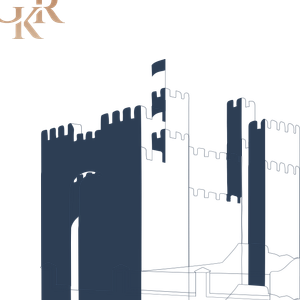
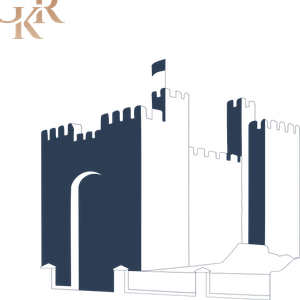
fix: update composite signature images with correct alignment

diff --git a/public/email-signature/garrett.html b/public/email-signature/garrett.html
@@ -55,12 +55,12 @@
     </style>
 </head>
 <body>
-    <table cellpadding="0" cellspacing="0" border="0" width="600" style="width: 600px; border-collapse: collapse; font-family: 'Montserrat', sans-serif;">
+    <table cellpadding="0" cellspacing="0" border="0" width="600" height="300" style="width: 600px; height: 300px; border-collapse: collapse; font-family: 'Montserrat', sans-serif;">
         <tr>
-            <td class="signature-container" valign="top" style="padding: 35px 40px; box-sizing: border-box;">
+            <td class="signature-container" valign="top" style="padding: 35px 40px; box-sizing: border-box; height: 300px;">
                 
                 <!-- Inner Layout -->
-                <table cellpadding="0" cellspacing="0" border="0" width="100%">
+                <table cellpadding="0" cellspacing="0" border="0" width="100%" height="100%">
                     <!-- Line 1: Logo -->
                     <tr>
                         <td align="left" style="padding-bottom: 20px;" colspan="2"> 
@@ -76,8 +76,8 @@
 
                     <!-- Line 3: Content Row -->
                     <tr>
-                        <!-- Left Col: Contact Info -->
-                        <td valign="bottom" width="260">
+                        <!-- Left Col: Contact Info (Aligned Bottom) -->
+                        <td valign="bottom" width="280" style="padding-bottom: 4px;"> <!-- slight padding to align with image baseline -->
                             <table cellpadding="0" cellspacing="0" border="0">
                                 <!-- Address -->
                                 <tr>
@@ -118,22 +118,10 @@
                             </table>
                         </td>
                         
-                        <!-- Right Col: Castle + Monogram -->
-                        <!-- Using side-by-side nested table to ensure alignment and fit -->
-                        <td align="right" valign="bottom" width="260">
-                            <table cellpadding="0" cellspacing="0" border="0">
-                                <tr>
-                                    <!-- Castle -->
-                                    <td valign="bottom" align="right" style="padding-right: 15px;">
-                                        <img src="https://raw.githubusercontent.com/digibranders/garrett-ronan-web/dev/public/email-signature/Castle%20Light.png" class="castle-light" alt="" width="160" style="display: block; border: 0;">
-                                        <img src="https://raw.githubusercontent.com/digibranders/garrett-ronan-web/dev/public/email-signature/Castle%20Dark.png" class="castle-dark" alt="" width="160" style="display: none; border: 0;">
-                                    </td>
-                                    <!-- Monogram -->
-                                    <td valign="bottom" align="right">
-                                        <img src="https://raw.githubusercontent.com/digibranders/garrett-ronan-web/dev/public/email-signature/Favicon%20Gold.png" alt="GR" width="60" style="display: block; border: 0;">
-                                    </td>
-                                </tr>
-                            </table>
+                        <!-- Right Col: Composite Image (Aligned Bottom-Right) -->
+                        <td align="right" valign="bottom" width="240">
+                             <img src="https://raw.githubusercontent.com/digibranders/garrett-ronan-web/dev/public/email-signature/Right_Composite_Light.png" class="castle-light" alt="" width="240" height="240" style="display: block; border: 0; max-width: 100%;">
+                             <img src="https://raw.githubusercontent.com/digibranders/garrett-ronan-web/dev/public/email-signature/Right_Composite_Dark.png" class="castle-dark" alt="" width="240" height="240" style="display: none; border: 0; max-width: 100%;">
                         </td>
                     </tr>
                 </table>

diff --git a/public/email-signature/generate_signature.py b/public/email-signature/generate_signature.py
@@ -4,9 +4,8 @@ REPO_BASE = "https://raw.githubusercontent.com/digibranders/garrett-ronan-web/de
 
 URL_LOGO_BLUE = f"{REPO_BASE}/GR_Blue.png"
 URL_LOGO_WHITE = f"{REPO_BASE}/GR_White.png"
-URL_CASTLE_LIGHT = f"{REPO_BASE}/Castle%20Light.png"
-URL_CASTLE_DARK = f"{REPO_BASE}/Castle%20Dark.png"
-URL_FAVICON = f"{REPO_BASE}/Favicon%20Gold.png"
+URL_RIGHT_LIGHT = f"{REPO_BASE}/Right_Composite_Light.png"
+URL_RIGHT_DARK = f"{REPO_BASE}/Right_Composite_Dark.png"
 
 OUTPUT_FILE = '/Users/apple/Desktop/AI/garrett-ronan-web/public/email-signature/garrett.html'
 
@@ -86,12 +85,12 @@ html_content = f'''<!DOCTYPE html>
     </style>
 </head>
 <body>
-    <table cellpadding="0" cellspacing="0" border="0" width="600" style="width: 600px; border-collapse: collapse; font-family: 'Montserrat', sans-serif;">
+    <table cellpadding="0" cellspacing="0" border="0" width="600" height="300" style="width: 600px; height: 300px; border-collapse: collapse; font-family: 'Montserrat', sans-serif;">
         <tr>
-            <td class="signature-container" valign="top" style="padding: 35px 40px; box-sizing: border-box;">
+            <td class="signature-container" valign="top" style="padding: 35px 40px; box-sizing: border-box; height: 300px;">
                 
                 <!-- Inner Layout -->
-                <table cellpadding="0" cellspacing="0" border="0" width="100%">
+                <table cellpadding="0" cellspacing="0" border="0" width="100%" height="100%">
                     <!-- Line 1: Logo -->
                     <tr>
                         <td align="left" style="padding-bottom: 20px;" colspan="2"> 
@@ -107,8 +106,8 @@ html_content = f'''<!DOCTYPE html>
 
                     <!-- Line 3: Content Row -->
                     <tr>
-                        <!-- Left Col: Contact Info -->
-                        <td valign="bottom" width="260">
+                        <!-- Left Col: Contact Info (Aligned Bottom) -->
+                        <td valign="bottom" width="280" style="padding-bottom: 4px;"> <!-- slight padding to align with image baseline -->
                             <table cellpadding="0" cellspacing="0" border="0">
                                 <!-- Address -->
                                 <tr>
@@ -149,22 +148,10 @@ html_content = f'''<!DOCTYPE html>
                             </table>
                         </td>
                         
-                        <!-- Right Col: Castle + Monogram -->
-                        <!-- Using side-by-side nested table to ensure alignment and fit -->
-                        <td align="right" valign="bottom" width="260">
-                            <table cellpadding="0" cellspacing="0" border="0">
-                                <tr>
-                                    <!-- Castle -->
-                                    <td valign="bottom" align="right" style="padding-right: 15px;">
-                                        <img src="{URL_CASTLE_LIGHT}" class="castle-light" alt="" width="160" style="display: block; border: 0;">
-                                        <img src="{URL_CASTLE_DARK}" class="castle-dark" alt="" width="160" style="display: none; border: 0;">
-                                    </td>
-                                    <!-- Monogram -->
-                                    <td valign="bottom" align="right">
-                                        <img src="{URL_FAVICON}" alt="GR" width="60" style="display: block; border: 0;">
-                                    </td>
-                                </tr>
-                            </table>
+                        <!-- Right Col: Composite Image (Aligned Bottom-Right) -->
+                        <td align="right" valign="bottom" width="240">
+                             <img src="{URL_RIGHT_LIGHT}" class="castle-light" alt="" width="240" height="240" style="display: block; border: 0; max-width: 100%;">
+                             <img src="{URL_RIGHT_DARK}" class="castle-dark" alt="" width="240" height="240" style="display: none; border: 0; max-width: 100%;">
                         </td>
                     </tr>
                 </table>
